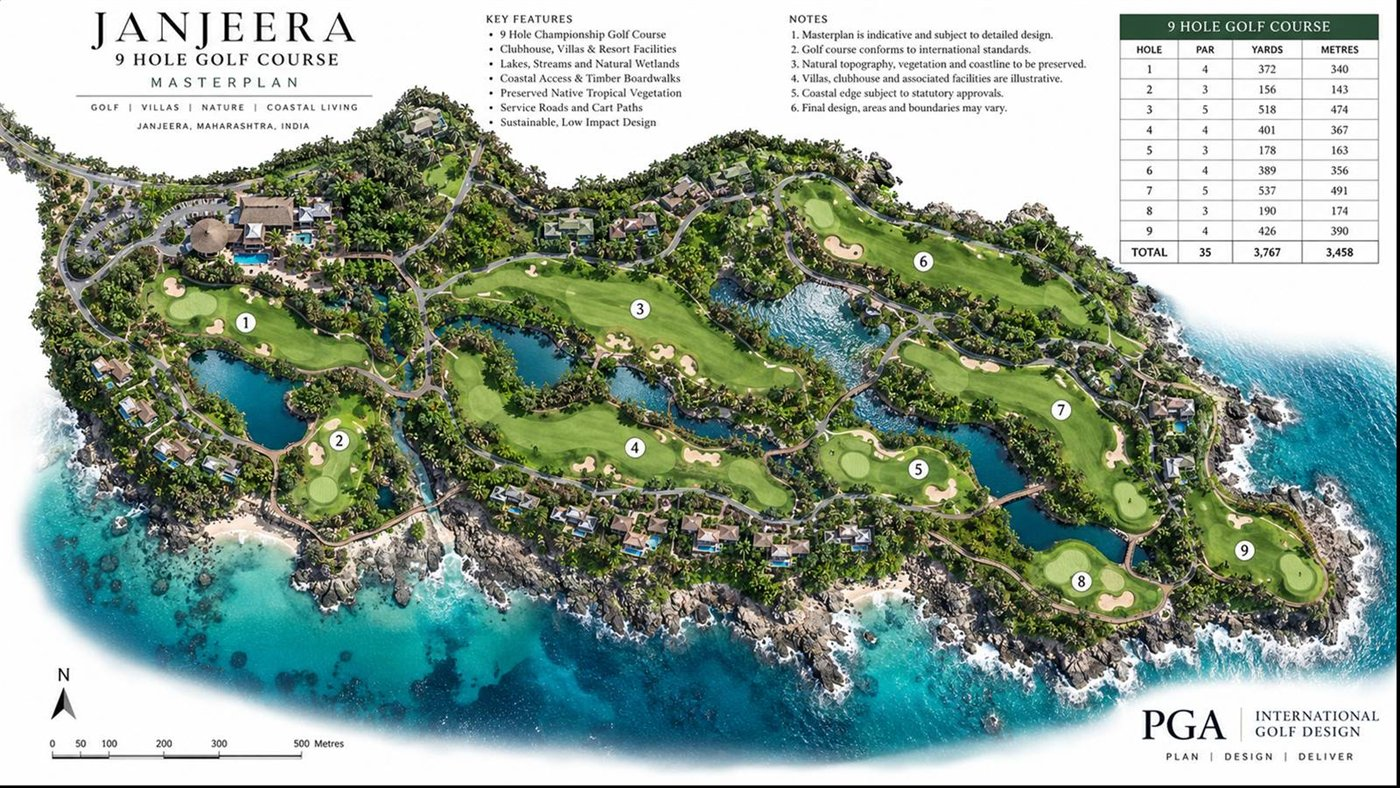
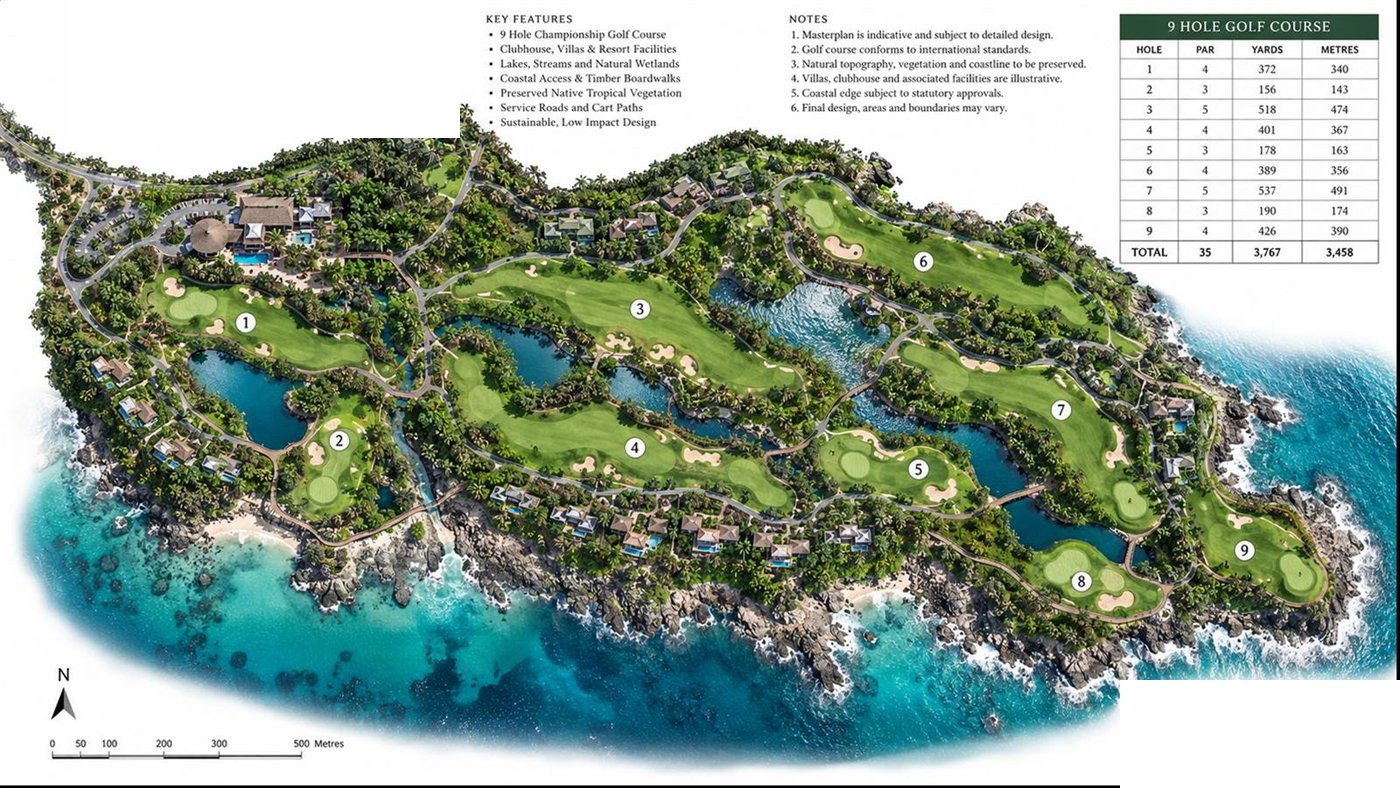
Remove embedded branding from project images

Changed region(s): [[0.0614, 0.0, 0.3379, 0.1827], [0.7986, 0.8528, 1.0, 1.0]]

diff --git a/README.md b/README.md
@@ -19,7 +19,7 @@ Edit the `projects` array in `scripts/projects.js`. Each project has:
 
 Clicking a project card opens a full-screen case-study overlay. Project photos and the homepage hero use contain-fit sizing so the complete image stays visible in both portrait and landscape. Viewer controls and navigation reveal on hover for pointer devices and remain available on touch screens.
 
-The order, slide galleries, discipline mappings, and homepage hero sequence from `MOTHER COMBINED.pptx` are in `scripts/ppt-project-data.js`. To regenerate them, place `MOTHER COMBINED.pptx` in the repository root and run `powershell -ExecutionPolicy Bypass -File scripts/import-ppt-slides.ps1` on Windows with Microsoft PowerPoint installed. The importer renders full slides without cropping, omits the repeated project-name and studio-logo footer from each export, and writes the images under `assets/img/projects/ppt-slides/`. It refreshes existing exports when run. Keep image references relative to the repository root so they work on GitHub Pages and on other systems. The first homepage hero image is preserved when the importer runs.
+The order, slide galleries, discipline mappings, and homepage hero sequence from `MOTHER COMBINED.pptx` are in `scripts/ppt-project-data.js`. To regenerate them, place `MOTHER COMBINED.pptx` in the repository root and run `powershell -ExecutionPolicy Bypass -File scripts/import-ppt-slides.ps1` on Windows with Microsoft PowerPoint installed. The importer renders full slides without cropping, removes editable project-name/studio-logo footers and cleans the few flattened slides whose source artwork has those marks baked in, and writes the images under `assets/img/projects/ppt-slides/`. It refreshes existing exports when run. Keep image references relative to the repository root so they work on GitHub Pages and on other systems. The first homepage hero image is preserved when the importer runs.
 
 ## Website guide
 The floating "Ask VVA" guide uses locally curated responses and the project data already included on the site. It does not send questions to an AI provider or answer beyond the site's published information. Project links open their gallery directly using `projects.html?project=<project-id>`.
